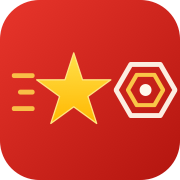
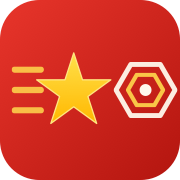
brand: 3 gach toc do bang nhau (bo kieu thut vao o gach giua) + giai thich hexagon

Changed region(s): [[0.0556, 0.3611, 0.25, 0.4444], [0.0556, 0.5833, 0.25, 0.6389], [0.0556, 0.4722, 0.25, 0.5278]]

diff --git a/crates/vifast-root/src/main.rs b/crates/vifast-root/src/main.rs
@@ -3070,19 +3070,6 @@ pub extern "C" fn root_main(bootinfo_ptr: u64) -> ! {
                         && usage.data[1] > 0
                         && usage.data[0] <= usage.data[1]
                         && usage.data[2] == 512;
-                    if !usage_ok {
-                        write(b"FSUS ");
-                        write_decimal(usage.error as u64);
-                        write(b" ");
-                        write_decimal(usage.label);
-                        write(b" ");
-                        write_decimal(usage.data[0]);
-                        write(b" ");
-                        write_decimal(usage.data[1]);
-                        write(b" ");
-                        write_decimal(usage.data[2]);
-                        write(b"\n");
-                    }
                     write(if usage_ok {
                         b"FS USAGE OK\n"
                     } else {

diff --git a/crates/vifast-client/src/main.rs b/crates/vifast-client/src/main.rs
@@ -555,15 +555,13 @@ fn shell_command(line: &[u8]) {
             });
         }
     } else if line == b"df" {
-        // Vòng 139: dung lượng FS (data area).
+        // Vòng 139: dung lượng FS (vùng data): "used/total" theo block.
         let reply = unsafe { vifast_user::call_message(1, vfs::STATFS, 0, 0, 0) };
         if reply.error == KError::Ok && reply.label == vfs::OK {
             write_u64(reply.data[0]);
             write(b"/");
             write_u64(reply.data[1]);
-            write(b" blocks, ");
-            write_u64(reply.data[2]);
-            write(b" B/block\n");
+            write(b"\n");
         } else {
             write(b"df: error\n");
         }
